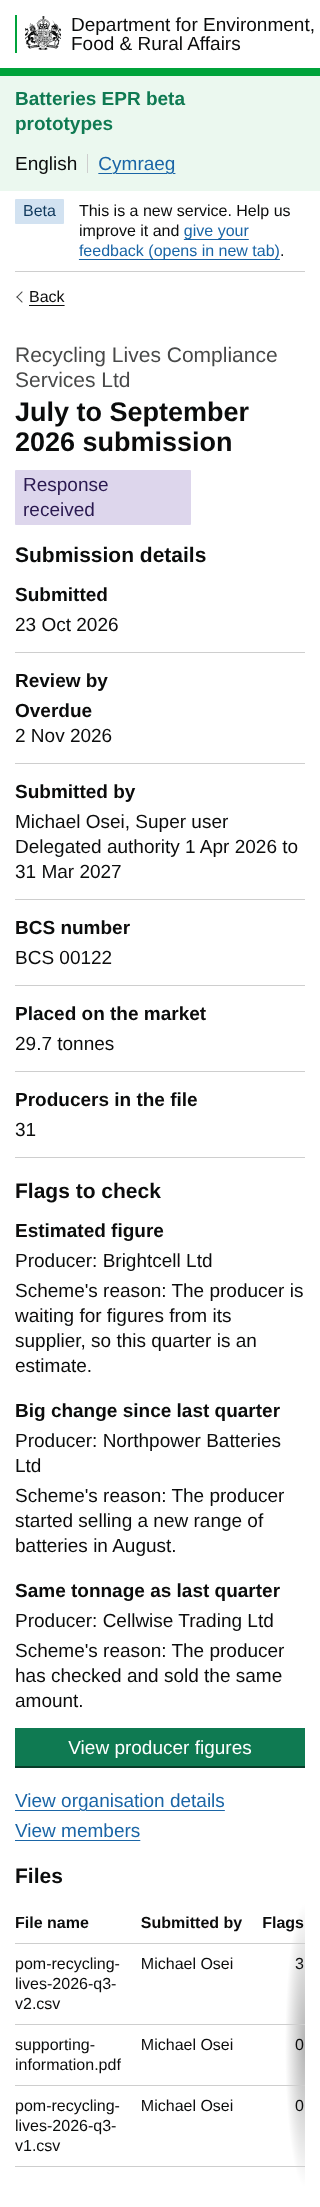
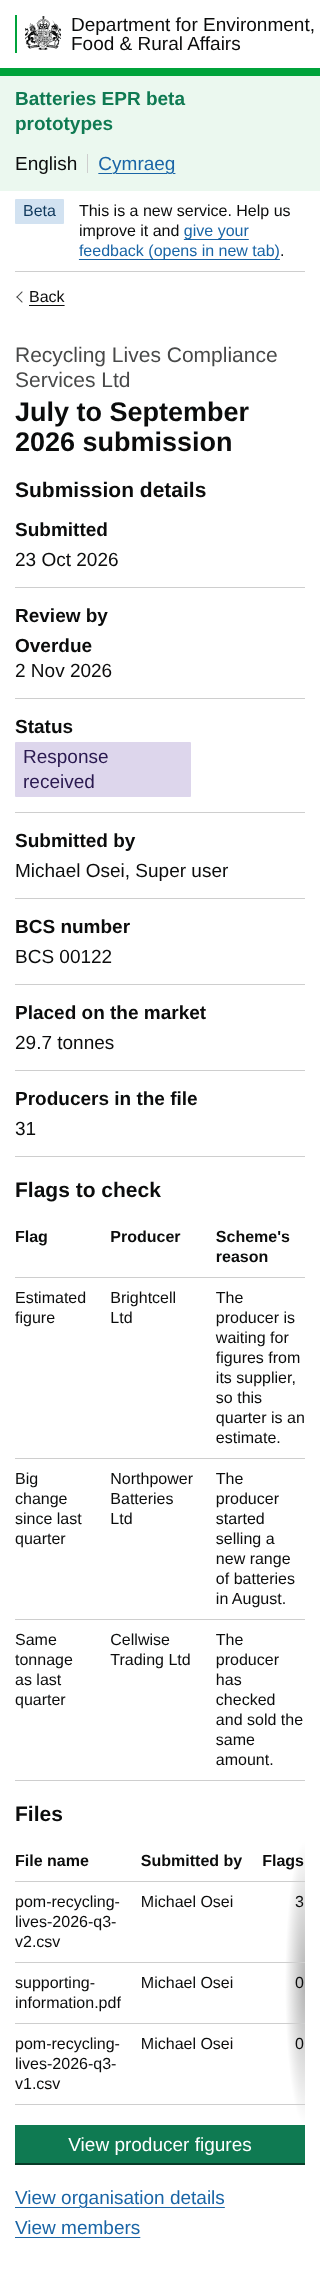
EB-325 full: flags in a table, files straight after; Regulators list titles start FULL or BRIEF
Claude-Session: https://claude.ai/code/session_014pBrKbgm5Jfdzkw7drhM9g

diff --git a/app/views/changes/add-pom-submission-page.html b/app/views/changes/add-pom-submission-page.html
@@ -18,9 +18,9 @@
 <p class="govuk-body"><strong>Brief version: 1 page (Marie and Jen)</strong></p>
 <ul class="govuk-list govuk-list--bullet"><li>Submission details: submitted, review by, status (the tag is in the list), who submitted it and their role (&quot;Tom Fielding, Admin&quot;), and the version (&quot;2 of 2&quot;, with a link to earlier versions)</li><li>One files table, full width, in 16px text and the MOJ scrollable pane: file name, the flags written out against the file they're in, submitted (the same word as the list), and View, which opens the file in a new tab (they can download it from there). Who submitted is in the details above, so it's not in the table</li><li>View producer figures straight after the files: it's the main thing to do next. The organisation details and members come after it, as they're needed less</li><li>The scheme's organisation details in a details component named after the scheme (for example &quot;Recycling Lives Compliance Services Ltd organisation details&quot;), view only. Emails are links. The people who can submit are in the list, everyone, however many</li><li>A link to the scheme's members below it (for example &quot;Recycling Lives Compliance Services Ltd members&quot;)</li><li>&quot;Admin&quot; for the top of the scheme's account</li><li>From &quot;View submission&quot; on the brief list. Scheme names on that list aren't links any more, so two links in a row don't go to the same place</li></ul>
 <p class="govuk-body"><strong>Full version: 2 pages (Rich)</strong></p>
-<ul class="govuk-list govuk-list--bullet"><li>Page 1, the submission: Rich's extras too (days left, BCS number, tonnage and producers in the file), flags written out with the scheme's reason, and a table of every file uploaded</li><li>Page 2, organisation details: Change links, so we can ask the business whether regulators can change them, and the people who can submit, with delegated authority dates</li><li>&quot;Super user&quot; for the top of the scheme's account</li><li>From &quot;View submission&quot; (page 1) or a scheme name (page 2) on the full list</li></ul>
+<ul class="govuk-list govuk-list--bullet"><li>Page 1, the submission: details with the status in the list and Rich's extras (days left, BCS number, tonnage and producers in the file), then the flags in a table (flag, producer, the scheme's reason), then every file uploaded, so they can open it, then View producer figures and the links</li><li>Page 2, organisation details: Change links, so we can ask the business whether regulators can change them, and the people who can submit, with delegated authority dates</li><li>&quot;Super user&quot; for the top of the scheme's account</li><li>From &quot;View submission&quot; (page 1) or a scheme name (page 2) on the full list</li></ul>
 <p class="govuk-body"><strong>Both versions</strong></p>
-<ul class="govuk-list govuk-list--bullet"><li>The scheme name as a caption</li><li>Back goes to the page before in the journey, worked out from the address, so it works without JavaScript</li><li>One label for the scheme's number, &quot;BCS number&quot;. No approval number: it's the same number</li><li>Left out, as agreed: conditions of approval, approved and expires, and account manager</li><li>&quot;Action&quot; and &quot;View submission&quot; are right aligned on both lists</li></ul>
+<ul class="govuk-list govuk-list--bullet"><li>The scheme name as a caption, and the status tag in the submission details</li><li>Submitted by shows the name and role only</li><li>On the Regulators list, the titles start FULL or BRIEF, so it's easy to see which is which</li><li>Back goes to the page before in the journey, worked out from the address, so it works without JavaScript</li><li>One label for the scheme's number, &quot;BCS number&quot;. No approval number: it's the same number</li><li>Left out, as agreed: conditions of approval, approved and expires, and account manager</li><li>&quot;Action&quot; and &quot;View submission&quot; are right aligned on both lists</li></ul>
 <p class="govuk-body"><strong>Questions</strong></p>
 <ul class="govuk-list govuk-list--bullet"><li>Can regulators change organisation details? (the full version's Change links)</li><li>Who can submit: more to discuss. A return from someone without authority shouldn't get through at all, so that's for the developers, not the page</li></ul>
 <p class="govuk-body"><strong>Prototype only</strong></p>

diff --git a/app/views/regulator/pom-submission/full.html b/app/views/regulator/pom-submission/full.html
@@ -11,8 +11,12 @@
   - The status tag is in the submission details, as in the brief version
   - "Super user", not "Admin" (Rich's word)
 
-  Add-on: MOJ scrollable pane round the files table, and the file name wraps
-  (app-table-cell--wrap), so only the table scrolls at small widths. See the README.
+  Order: submission details, flags (a table: flag, producer, the scheme's
+  reason), files (so they can open what was uploaded), then View producer
+  figures and the links.
+
+  Add-on: MOJ scrollable pane round the flags and files tables, and long text
+  wraps (app-table-cell--wrap), so only the tables scroll at small widths. See the README.
 
   The data: app/data/pom-submission-details.js (dummy).
   The words: app/content/regulator/pom-submission-full.md
@@ -51,8 +55,18 @@
   { key: { text: words.producersInTheFile }, value: { text: s.producers } }
 ])) %}
 
-{# Files: every file uploaded for this quarter, newest first #}
+{# Flags: one row each #}
 {% set small = "govuk-!-font-size-16" %}
+{% set flagRows = [] %}
+{% for flag in s.flags %}
+  {% set flagRows = (flagRows.push([
+    { text: flag.title, classes: small + " app-table-cell--wrap" },
+    { text: flag.producer, classes: small + " app-table-cell--wrap" },
+    { text: flag.reason, classes: small + " app-table-cell--wrap" }
+  ]), flagRows) %}
+{% endfor %}
+
+{# Files: every file uploaded for this quarter, newest first #}
 {% set fileRows = [] %}
 {% for f in s.files %}
   {% set fileRows = (fileRows.push([
@@ -74,30 +88,32 @@
     <h2 class="govuk-heading-m">{{ words.submissionDetailsHeading }}</h2>
     {{ govukSummaryList({ rows: detailRows }) }}
 
+  </div>
+</div>
+
+{# Flags, then the files, full width so the tables have room #}
+<div class="govuk-grid-row">
+  <div class="govuk-grid-column-full">
+
     <h2 class="govuk-heading-m">{{ words.flagsHeading }}</h2>
     {% if s.flags.length %}
-      {% for flag in s.flags %}
-        <h3 class="govuk-heading-s govuk-!-margin-bottom-1">{{ flag.title }}</h3>
-        <p class="govuk-body govuk-!-margin-bottom-1">{{ words.producer }} {{ flag.producer }}</p>
-        <p class="govuk-body">{{ words.reason }} {{ flag.reason }}</p>
-      {% endfor %}
+      <div class="moj-scrollable-pane" role="region" tabindex="0" aria-label="{{ words.flagsTableCaption }}">
+        {{ govukTable({
+          caption: words.flagsTableCaption,
+          captionClasses: "govuk-visually-hidden",
+          head: [
+            { text: words.flagColumn, classes: small + " app-table-cell--wrap" },
+            { text: words.producerColumn, classes: small + " app-table-cell--wrap" },
+            { text: words.reasonColumn, classes: small + " app-table-cell--wrap" }
+          ],
+          rows: flagRows
+        }) }}
+      </div>
     {% else %}
       <p class="govuk-body">{{ words.noFlags }}</p>
     {% endif %}
 
-    {{ govukButton({ text: words.viewProducerFiguresButton, href: notBuiltHref }) }}
-
-    <ul class="govuk-list">
-      <li><a href="{{ organisationHref }}" class="govuk-link">{{ words.viewOrganisationDetailsLink }}</a></li>
-      <li><a href="{{ notBuiltHref }}" class="govuk-link">{{ words.viewMembersLink }}</a></li>
-    </ul>
-
-  </div>
-</div>
-
-<div class="govuk-grid-row">
-  <div class="govuk-grid-column-full">
-    <h2 class="govuk-heading-m govuk-!-margin-top-6">{{ words.filesHeading }}</h2>
+    <h2 class="govuk-heading-m">{{ words.filesHeading }}</h2>
     <div class="moj-scrollable-pane" role="region" tabindex="0" aria-label="{{ words.filesTableCaption }}">
       {{ govukTable({
         caption: words.filesTableCaption,
@@ -112,6 +128,21 @@
         rows: fileRows
       }) }}
     </div>
+
   </div>
 </div>
+
+<div class="govuk-grid-row">
+  <div class="govuk-grid-column-two-thirds">
+
+    {{ govukButton({ text: words.viewProducerFiguresButton, href: notBuiltHref }) }}
+
+    <ul class="govuk-list">
+      <li><a href="{{ organisationHref }}" class="govuk-link">{{ words.viewOrganisationDetailsLink }}</a></li>
+      <li><a href="{{ notBuiltHref }}" class="govuk-link">{{ words.viewMembersLink }}</a></li>
+    </ul>
+
+  </div>
+</div>
+
 {% endblock %}

diff --git a/app/views/regulators.html b/app/views/regulators.html
@@ -36,25 +36,25 @@
 {% set work = [
   {
     date: "6 Nov 2026", sortDate: "2026-11-06", version: 1,
-    title: "Placed on the market submission, full version (2 pages: the submission, then organisation details)",
+    title: "FULL: Placed on the market submission (2 pages: the submission, then organisation details)",
     href: "/regulator/pom-submissions/full/recycling-lives/2026/3",
     status: "Ideation", ticket: "EB-325"
   },
   {
     date: "6 Nov 2026", sortDate: "2026-11-06", version: 1,
-    title: "Placed on the market submission, brief version (1 page, organisation details in an accordion)",
+    title: "BRIEF: Placed on the market submission (1 page)",
     href: "/regulator/pom-submissions/brief/recycling-lives/2026/3",
     status: "Ideation", ticket: "EB-325"
   },
   {
     date: "5 Nov 2026", sortDate: "2026-11-05", version: 1,
-    title: "Placed on the market submissions, full version (all submissions)",
+    title: "FULL: Placed on the market submissions (all submissions)",
     href: "/regulator/pom-submissions/all-submissions",
     status: "Ideation", ticket: "EB-324"
   },
   {
     date: "5 Nov 2026", sortDate: "2026-11-05", version: 1,
-    title: "Placed on the market submissions, brief version (latest quarter)",
+    title: "BRIEF: Placed on the market submissions (latest quarter)",
     href: "/regulator/pom-submissions/latest-quarter",
     status: "Ideation", ticket: "EB-324"
   },

diff --git a/app/content/regulator/pom-submission-full.md b/app/content/regulator/pom-submission-full.md
@@ -52,11 +52,17 @@ Producers in the file
 ## Flags heading
 Flags to check
 
-## Producer (before the producer's name)
-Producer:
+## Flags table caption (only screen readers hear this)
+Flags to check in this submission
 
-## Reason (before the scheme's reason)
-Scheme's reason:
+## Flag column
+Flag
+
+## Producer column
+Producer
+
+## Reason column
+Scheme's reason
 
 ## No flags
 There are no flags on this submission.
